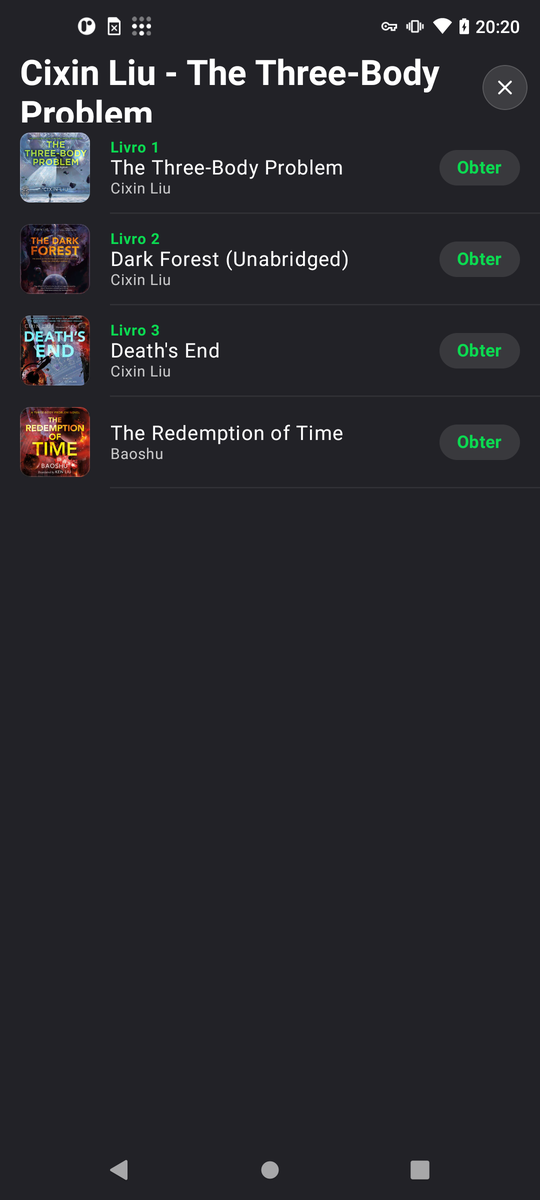
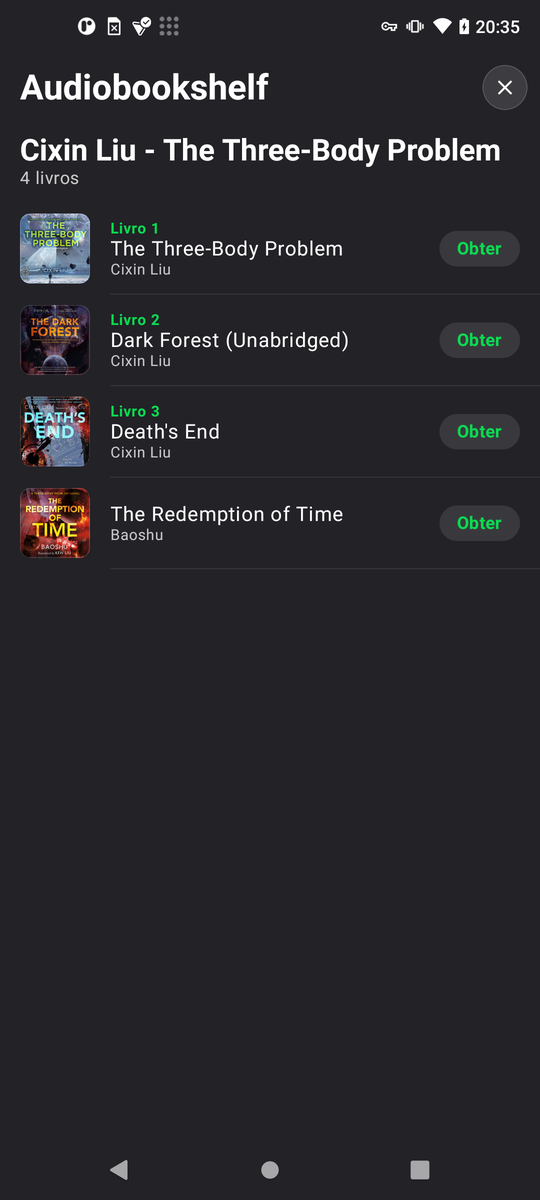
[NO-TASK] Show a long series name in full above its books

diff --git a/app/src/main/java/com/mobyle/abbay/presentation/audiobookshelf/AudiobookshelfSeries.kt b/app/src/main/java/com/mobyle/abbay/presentation/audiobookshelf/AudiobookshelfSeries.kt
@@ -1,21 +1,31 @@
 package com.mobyle.abbay.presentation.audiobookshelf
 
 import androidx.compose.foundation.layout.Box
+import androidx.compose.foundation.layout.Column
 import androidx.compose.foundation.layout.fillMaxSize
+import androidx.compose.foundation.layout.fillMaxWidth
+import androidx.compose.foundation.layout.padding
 import androidx.compose.material.icons.Icons
 import androidx.compose.material.icons.outlined.CloudOff
 import androidx.compose.material.icons.outlined.ErrorOutline
 import androidx.compose.material.icons.outlined.LibraryBooks
 import androidx.compose.material3.CircularProgressIndicator
 import androidx.compose.material3.MaterialTheme
+import androidx.compose.material3.Text
 import androidx.compose.runtime.Composable
 import androidx.compose.runtime.collectAsState
 import androidx.compose.runtime.getValue
 import androidx.compose.ui.Alignment
 import androidx.compose.ui.Modifier
+import androidx.compose.ui.res.pluralStringResource
 import androidx.compose.ui.res.stringResource
+import androidx.compose.ui.semantics.heading
+import androidx.compose.ui.semantics.semantics
+import androidx.compose.ui.text.font.FontWeight
+import androidx.compose.ui.unit.dp
 import androidx.hilt.navigation.compose.hiltViewModel
 import com.mobyle.abbay.R
+import com.mobyle.abbay.presentation.common.theme.AbbayColors
 import com.mobyle.abbay.presentation.common.widgets.AbbayScreen
 import com.mobyle.abbay.presentation.librivox.ResultsList
 import com.mobyle.abbay.presentation.librivox.StateMessage
@@ -31,7 +41,7 @@ fun AudiobookshelfSeriesScreen(
 ) {
     val state by viewModel.state.collectAsState()
     val libraryBookIds by viewModel.libraryBookIds.collectAsState()
-    AbbayScreen(title = viewModel.name, onClose = close) {
+    AbbayScreen(title = stringResource(R.string.audiobookshelf_title), onClose = close) {
         when (val current = state) {
             AudiobookshelfSeriesState.Loading -> Box(Modifier.fillMaxSize(), contentAlignment = Alignment.Center) {
                 CircularProgressIndicator(color = MaterialTheme.colorScheme.tertiary)
@@ -59,10 +69,35 @@ fun AudiobookshelfSeriesScreen(
                 libraryIds = libraryBookIds.keys,
                 onOpenBook = onOpenBook,
                 overline = { book -> book.series?.let { sequenceLabel(it) } },
+                header = { SeriesHeader(name = viewModel.name, bookCount = current.books.size) },
             )
         }
     }
 }
+
+/** The series' full name, however long, above its books. */
+@Composable
+private fun SeriesHeader(name: String, bookCount: Int) {
+    Column(
+        modifier = Modifier
+            .fillMaxWidth()
+            .padding(start = 16.dp, end = 16.dp, top = 8.dp, bottom = 12.dp),
+    ) {
+        Text(
+            name,
+            style = MaterialTheme.typography.headlineSmall.copy(fontWeight = FontWeight.Bold),
+            color = AbbayColors.content,
+            modifier = Modifier.semantics { heading() },
+        )
+        Text(
+            pluralStringResource(R.plurals.audiobookshelf_series_book_count, bookCount, bookCount),
+            style = MaterialTheme.typography.bodyMedium,
+            color = AbbayColors.content.copy(alpha = HEADER_SECONDARY_ALPHA),
+        )
+    }
+}
+
+private const val HEADER_SECONDARY_ALPHA = 0.75f
 
 /** "Book 2", or null when the series does not number it. */
 @Composable

diff --git a/app/src/main/java/com/mobyle/abbay/presentation/common/widgets/AbbayScreen.kt b/app/src/main/java/com/mobyle/abbay/presentation/common/widgets/AbbayScreen.kt
@@ -18,6 +18,7 @@ import androidx.compose.ui.Modifier
 import androidx.compose.ui.res.stringResource
 import androidx.compose.ui.text.TextStyle
 import androidx.compose.ui.text.font.FontWeight
+import androidx.compose.ui.text.style.TextOverflow
 import androidx.compose.ui.unit.dp
 import androidx.compose.ui.unit.sp
 import com.mobyle.abbay.R
@@ -42,7 +43,9 @@ fun AbbayScreen(
                         color = AbbayColors.content,
                         fontSize = 28.sp,
                         fontWeight = FontWeight.Bold
-                    )
+                    ),
+                    maxLines = 1,
+                    overflow = TextOverflow.Ellipsis,
                 )
             },
             actions = {

diff --git a/app/src/main/java/com/mobyle/abbay/presentation/librivox/LibriVoxSearchScreen.kt b/app/src/main/java/com/mobyle/abbay/presentation/librivox/LibriVoxSearchScreen.kt
@@ -190,8 +190,10 @@ internal fun ResultsList(
     libraryIds: Set<String>,
     onOpenBook: (LibriVoxBook) -> Unit,
     overline: @Composable (LibriVoxBook) -> String? = { null },
+    header: (@Composable () -> Unit)? = null,
 ) {
     LazyColumn(modifier = Modifier.fillMaxSize(), contentPadding = PaddingValues(bottom = 24.dp)) {
+        header?.let { content -> item { content() } }
         items(books, key = { it.id }) { book ->
             LibriVoxResultRow(book, isInLibrary = book.id in libraryIds, overline = overline(book), onClick = { onOpenBook(book) })
             HorizontalDivider(
